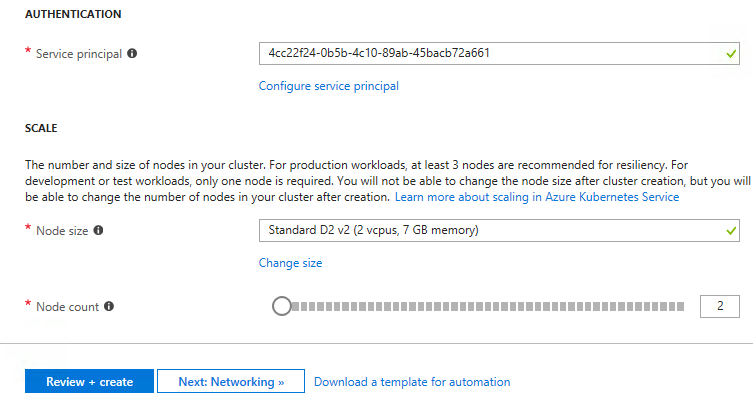
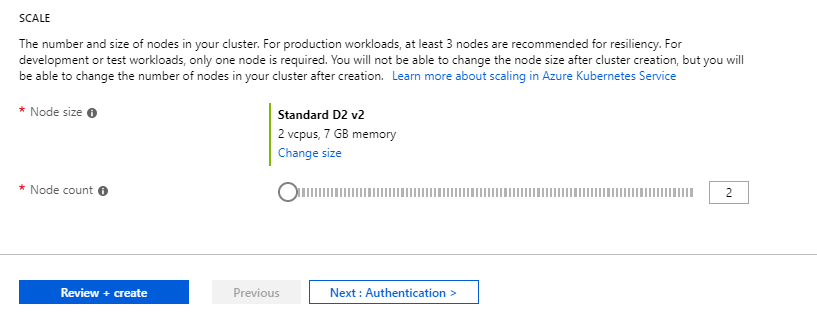
Add more screen shots

diff --git a/Hands-on lab/Before the HOL - Containers and DevOps.md b/Hands-on lab/Before the HOL - Containers and DevOps.md
@@ -536,13 +536,6 @@ In this task, you will create your Azure Kubernetes Service cluster. You will us
 
         ![Basics is selected in the Create Azure Kubernetes Service blade, and the values listed above appear in the corresponding boxes in the Basics blade on the right.](media/b4-image41.png)
 
-    * Configure your service principal.
-    
-        * **Service principal client ID**: Use the service principal “appId” from the previous step.
-        * **Service principal client secret**: Use the service principal “password” from the previous step.
-
-            ![Microsoft Azure](media/b4-image41a.png)
-
     * Configure your VM size.
 
         * Click "Change Size".
@@ -555,17 +548,28 @@ In this task, you will create your Azure Kubernetes Service cluster. You will us
 
         ![Microsoft Azure](media/b4-image41c.png)
 
-3. Select "Next: Networking".
-4. Keep the defaults and select "Next: Monitoring".
-5. Keep the defaults and select "Next: Tags".
-6. Keep the defaults and select "Review + create".
-7. You should see that validation passed; select "Create".
 
-8.  On the Summary blade, you should see that validation passed; select **OK**.
+3. Select "Next : Authentication"
+
+    * Configure your service principal.
+    
+        * **Service principal client ID**: Use the service principal “appId” from the previous step.
+        * **Service principal client secret**: Use the service principal “password” from the previous step.
+
+            ![Microsoft Azure](media/b4-image41a.png)
+
+
+4. Select "Next: Networking".
+5. Keep the defaults and select "Next: Monitoring".
+6. Keep the defaults and select "Next: Tags".
+7. Keep the defaults and select "Review + create".
+8. You should see that validation passed; select "Create".
+
+9.  On the Summary blade, you should see that validation passed; select **OK**.
 
     ![Summary is selected in the Create Azure Kubernetes Service blade, and a Validation passed message appears in the Summary blade on the right.](media/b4-image43.png)
 
-9.  The Azure Kubernetes Service cluster will begin deployment to your Azure subscription. You should see a successful deployment notification when the cluster is ready. It can take up to 10 minutes before your Azure Kubernetes Service cluster is listed in the Azure Portal. You can proceed to the next step while waiting for this to complete, then return to view the success of the deployment.
+10.  The Azure Kubernetes Service cluster will begin deployment to your Azure subscription. You should see a successful deployment notification when the cluster is ready. It can take up to 10 minutes before your Azure Kubernetes Service cluster is listed in the Azure Portal. You can proceed to the next step while waiting for this to complete, then return to view the success of the deployment.
 
     ![This is a screenshot of a deployment notification indicating that the deployments succeeded.](media/b4-image45.png)
 
